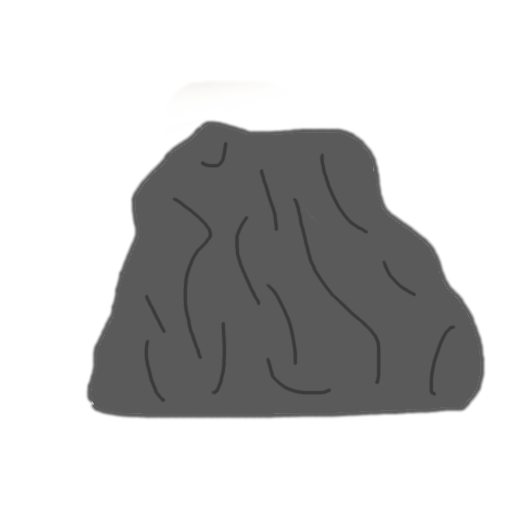
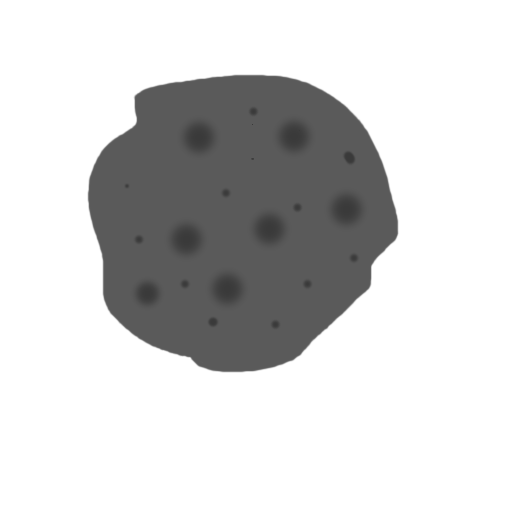
asdf

diff --git a/pack_world_game/src/state/assets.rs b/pack_world_game/src/state/assets.rs
@@ -6,6 +6,7 @@ pub struct Assets {
     pub image_grass: Image,
     pub image_dirt_clod: Image,
     pub image_stick: Image,
+    pub image_boulder: Image,
     pub image_rock: Image,
 
     pub image_pack_starter: Image,
@@ -19,6 +20,7 @@ impl Assets {
             image_stick: Image::new(),
             image_dirt_clod: Image::new(),
             image_pack_starter: Image::new(),
+            image_boulder: Image::new(),
             image_rock: Image::new(),
         }
     }
@@ -27,7 +29,7 @@ impl Assets {
         match tile {
             TileType::Dirt => return self.image_dirt.gl_id.unwrap(),
             TileType::Grass => return self.image_grass.gl_id.unwrap(),
-            TileType::Rock => return self.image_rock.gl_id.unwrap(),
+            TileType::Boulder => return self.image_boulder.gl_id.unwrap(),
         };
     }
 
@@ -35,6 +37,7 @@ impl Assets {
         match item {
             ItemType::DirtClod => return self.image_dirt_clod.gl_id.unwrap(),
             ItemType::Stick => return self.image_stick.gl_id.unwrap(),
+            ItemType::Rock => return self.image_rock.gl_id.unwrap(),
             ItemType::Tile(tile_type) => return self.get_tile_icon(tile_type),
         };
     }

diff --git a/pack_world_game/src/tile/tiles/tile_boulder.rs b/pack_world_game/src/tile/tiles/tile_boulder.rs
@@ -13,11 +13,11 @@ use gengar_engine::{
 
 const HARVEST_SECONDS: f64 = 800.0;
 
-pub struct TileRock {
+pub struct TileBoulder {
     harvest_timer: HarvestTimer,
 }
 
-impl TileMethods for TileRock {
+impl TileMethods for TileBoulder {
     fn update(&mut self, time_step: f64) -> Vec<UpdateSignal> {
         self.harvest_timer.inc(time_step);
         vec![]
@@ -59,7 +59,7 @@ impl TileMethods for TileRock {
         }
 
         draw_tile(
-            TileType::Rock,
+            TileType::Boulder,
             rotation,
             pos,
             shader_color,
@@ -69,12 +69,12 @@ impl TileMethods for TileRock {
     }
 }
 
-impl TileRock {
+impl TileBoulder {
     pub fn new() -> TileInstance {
         TileInstance {
-            tile_type: TileType::Rock,
-            methods: Box::new(TileRock {
-                harvest_timer: HarvestTimer::new(HARVEST_SECONDS, DropTableID::Grass),
+            tile_type: TileType::Boulder,
+            methods: Box::new(TileBoulder {
+                harvest_timer: HarvestTimer::new(HARVEST_SECONDS, DropTableID::Boulder),
             }),
         }
     }

diff --git a/pack_world_game/src/game.rs b/pack_world_game/src/game.rs
@@ -77,6 +77,8 @@ pub fn game_init(gs: &mut State, es: &mut EngineState, render_api: &impl RenderA
         load_image_cursor(include_bytes!("../resources/stick.png"), render_api).unwrap();
     gs.assets.image_pack_starter =
         load_image_cursor(include_bytes!("../resources/pack_starter.png"), render_api).unwrap();
+    gs.assets.image_boulder =
+        load_image_cursor(include_bytes!("../resources/boulder.png"), render_api).unwrap();
     gs.assets.image_rock =
         load_image_cursor(include_bytes!("../resources/rock.png"), render_api).unwrap();
 
@@ -171,7 +173,13 @@ pub fn game_loop(gs: &mut State, es: &mut EngineState, input: &mut Input) {
 
     // update tiles
     {
-        let frame_delta: f64 = 0.1;
+        let mut frame_delta: f64 = 0.1;
+
+        // DEBUG!
+        if input.keyboard[0x31].on_press {
+            frame_delta = 100.0;
+        }
+
         let mut update_signals: Vec<UpdateSignal> = vec![];
         for (key, value) in &mut gs.world.tiles {
             update_signals.append(&mut value.methods.update(frame_delta));

diff --git a/pack_world_game/src/tile.rs b/pack_world_game/src/tile.rs
@@ -15,9 +15,9 @@ use std::collections::HashMap;
 pub mod harvest_timer;
 pub mod tiles;
 
+use tiles::tile_boulder::*;
 use tiles::tile_dirt::*;
 use tiles::tile_grass::*;
-use tiles::tile_rock::*;
 
 pub trait TileMethods {
     fn update(&mut self, time_step: f64) -> Vec<UpdateSignal>;
@@ -38,7 +38,7 @@ pub trait TileMethods {
 pub enum TileType {
     Dirt,
     Grass,
-    Rock,
+    Boulder,
 }
 
 // TODO make these private?
@@ -59,7 +59,7 @@ impl TileType {
         // check types
         return match self {
             TileType::Dirt => true,
-            TileType::Grass | TileType::Rock => {
+            TileType::Grass | TileType::Boulder => {
                 if !world.tiles.contains_key(&pos) {
                     return false;
                 }
@@ -73,7 +73,7 @@ impl TileType {
         match self {
             TileType::Dirt => TileDirt::new(),
             TileType::Grass => TileGrass::new(),
-            TileType::Rock => TileRock::new(),
+            TileType::Boulder => TileBoulder::new(),
         }
     }
 }

diff --git a/pack_world_game/src/drop_table.rs b/pack_world_game/src/drop_table.rs
@@ -5,6 +5,7 @@ use std::{collections::HashMap, sync::LazyLock};
 #[derive(Hash, Eq, PartialEq, Debug, Clone, Copy)]
 pub enum DropTableID {
     Grass,
+    Boulder,
 }
 
 #[derive(Debug)]
@@ -50,14 +51,18 @@ impl DropTable {
     }
 }
 
-static GRASS_TABLE: LazyLock<DropTable> =
-    LazyLock::new(|| DropTable::new(vec![(ItemType::DirtClod, 10.0), (ItemType::Stick, 4.0)]));
-
 pub fn get_drop(table: DropTableID) -> ItemType {
     match table {
-        DropTableID::Grass => GRASS_TABLE.pull(),
+        DropTableID::Grass => GRASS.pull(),
+        DropTableID::Boulder => BOULDER.pull(),
     }
 }
+
+static GRASS: LazyLock<DropTable> =
+    LazyLock::new(|| DropTable::new(vec![(ItemType::DirtClod, 10.0), (ItemType::Stick, 4.0)]));
+
+static BOULDER: LazyLock<DropTable> =
+    LazyLock::new(|| DropTable::new(vec![(ItemType::Rock, 10.0)]));
 
 mod test {
     use super::*;

diff --git a/pack_world_game/src/ui_panels/tile_library_panel.rs b/pack_world_game/src/ui_panels/tile_library_panel.rs
@@ -50,7 +50,7 @@ impl UIPanelLifecycle for TileLibraryPanel {
                         ret.push(UpdateSignal::SetPlacingTile(Some(*tile_type)));
                     }
                 }
-                ItemType::DirtClod | ItemType::Stick => {
+                ItemType::DirtClod | ItemType::Stick | ItemType::Rock => {
                     draw_image(
                         Rect::new_top_size(VecTwo::new(10.0, y), 50.0, 50.0),
                         icon,

diff --git a/pack_world_game/src/pack.rs b/pack_world_game/src/pack.rs
@@ -56,9 +56,9 @@ static STARTER: LazyLock<Pack> = LazyLock::new(|| {
         vec![(ItemType::DirtClod, 5)],
         4,
         DropTable::new(vec![
-            (ItemType::Tile(TileType::Dirt), 20.0),
+            (ItemType::Tile(TileType::Dirt), 25.0),
             (ItemType::Tile(TileType::Grass), 12.0),
-            (ItemType::Tile(TileType::Rock), 8.0),
+            (ItemType::Tile(TileType::Boulder), 8.0),
         ]),
     )
 });

diff --git a/pack_world_game/src/item.rs b/pack_world_game/src/item.rs
@@ -4,6 +4,7 @@ use crate::tile::*;
 pub enum ItemType {
     DirtClod,
     Stick,
+    Rock,
     Tile(TileType),
 }
 
@@ -12,6 +13,7 @@ impl ItemType {
         match self {
             ItemType::DirtClod => "Dirt Clod".into(),
             ItemType::Stick => "Stick".into(),
+            ItemType::Rock => "Rock".into(),
             ItemType::Tile(tile_type) => format!("{:?}", tile_type).into(),
         }
     }

diff --git a/pack_world_game/src/tile/harvest_timer.rs b/pack_world_game/src/tile/harvest_timer.rs
@@ -33,6 +33,8 @@ impl HarvestTimer {
     pub fn harvest(&mut self, tile_pos: VecTwo) -> Vec<UpdateSignal> {
         self.time = 0.0;
 
+        println!("harvestging {:?}", self.table_id);
+
         vec![UpdateSignal::HarvestItemPullTable {
             table: self.table_id,
             origin: tile_pos,

diff --git a/pack_world_game/src/harvest_drop.rs b/pack_world_game/src/harvest_drop.rs
@@ -37,6 +37,8 @@ impl HarvestDrop {
         let x: f64 = rand::random_range(-DROP_RADIUS..DROP_RADIUS);
         let y: f64 = rand::random_range(-DROP_RADIUS..DROP_RADIUS);
 
+        println!("new harvest {:?}", item_type);
+
         Self {
             item_type,
             origin,

diff --git a/pack_world_game/src/tile/tiles.rs b/pack_world_game/src/tile/tiles.rs
@@ -1,3 +1,3 @@
+pub mod tile_boulder;
 pub mod tile_dirt;
 pub mod tile_grass;
-pub mod tile_rock;
